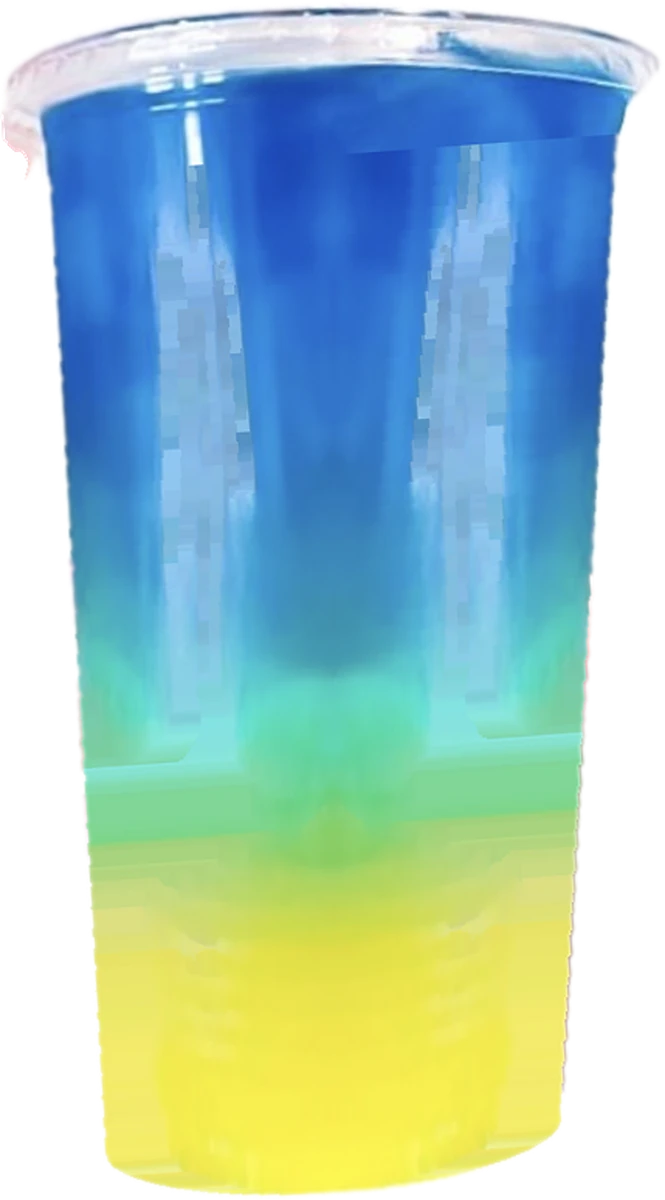
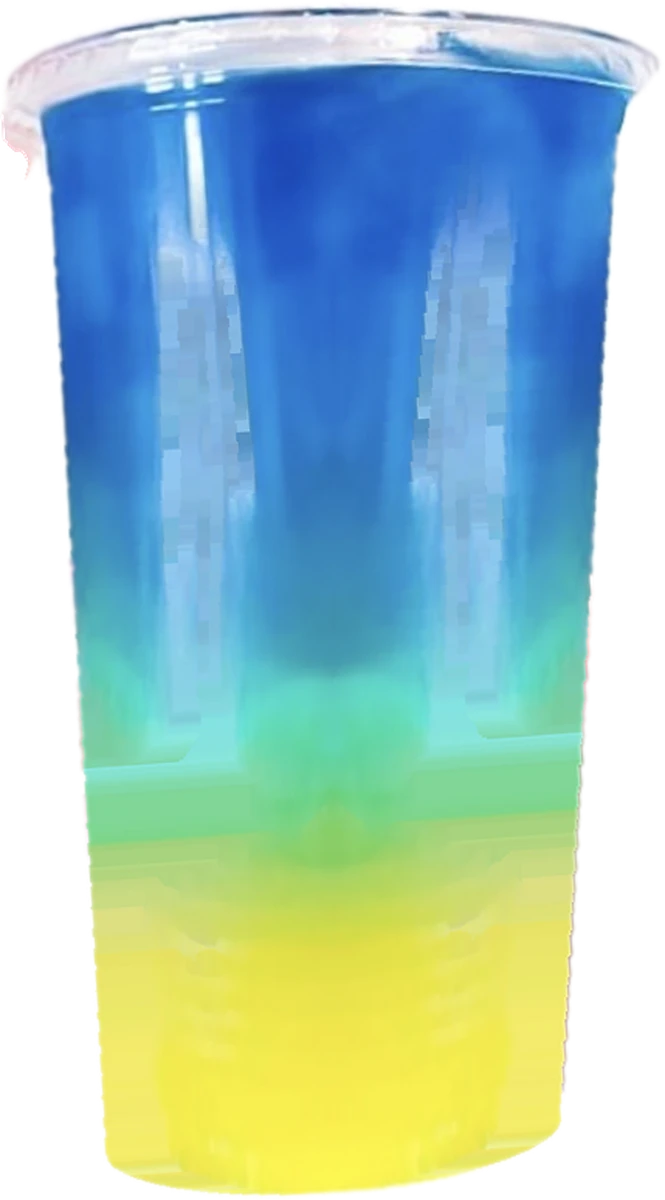
Crossfade the rebuilt cups into their own lid rows
The matte kept the clear lid and the profile painted the body, and the handover
between them was a hard row: on the rainbow cup the two blues differed by a shade
and left a visible step across the drink. Fade one into the other over 90 rows.

diff --git a/verify/live.js b/verify/live.js
@@ -1,0 +1,28 @@
+/* Verify the LIVE page, not the local server — a different authority than the one that built it. */
+const p = require('C:/Users/Circl/.claude/skills/scroll-film-studio/node_modules/puppeteer-core');
+const URL = 'https://stationonemain-source.github.io/the-fix-norman/';
+(async () => {
+  const b = await p.launch({ executablePath: 'C:/Program Files/Google/Chrome/Application/chrome.exe', headless: 'new', args: ['--hide-scrollbars', '--no-sandbox'] });
+  for (const [w, h, tag] of [[1440, 900, 'live_d'], [390, 844, 'live_m']]) {
+    const pg = await b.newPage();
+    await pg.setViewport({ width: w, height: h, isMobile: w < 820, hasTouch: w < 820 });
+    if (w < 820) await pg.setUserAgent('Mozilla/5.0 (Linux; Android 13; Pixel 7) AppleWebKit/537.36 (KHTML, like Gecko) Chrome/128.0 Mobile Safari/537.36');
+    const errs = [], bad = [];
+    pg.on('pageerror', e => errs.push('PAGEERROR ' + e.message));
+    pg.on('console', m => { if (m.type() === 'error') errs.push('CONSOLE ' + m.text()); });
+    pg.on('response', r => { if (r.status() >= 400) bad.push(r.status() + ' ' + r.url()); });
+    await pg.goto(URL + '?jump=0', { waitUntil: 'networkidle0', timeout: 90000 });
+    await pg.waitForFunction('window.__ready===true', { timeout: 60000 });
+    await new Promise(r => setTimeout(r, 1500));
+    await pg.screenshot({ path: 'verify/' + tag + '_hero.png' });
+    const info = await pg.evaluate(() => ({
+      h: document.documentElement.scrollHeight, w: document.documentElement.scrollWidth,
+      cups: Array.from(document.querySelectorAll('.slot img')).map(i => i.naturalWidth + 'x' + i.naturalHeight),
+      title: document.title
+    }));
+    console.log(tag, JSON.stringify(info));
+    console.log(tag, 'errors:', errs.length ? errs.join(' | ') : 'none', '| failed requests:', bad.length ? bad.join(' | ') : 'none');
+    await pg.close();
+  }
+  await b.close();
+})().catch(e => { console.error('FAIL', e.message); process.exit(1); });

diff --git a/site/index.html b/site/index.html
@@ -14,7 +14,7 @@
 <link rel="preconnect" href="https://fonts.gstatic.com" crossorigin>
 <link href="https://fonts.googleapis.com/css2?family=Anton&family=Archivo+Black&family=Caveat:wght@600;700&family=Manrope:wght@400;500;600;700&family=Space+Mono:wght@400;700&display=swap" rel="stylesheet">
 <link rel="preload" as="image" href="img/01-cup.webp">
-<link rel="stylesheet" href="css/site.css?v=202609151819">
+<link rel="stylesheet" href="css/site.css?v=202609151826">
 </head>
 <body>
 
@@ -287,10 +287,10 @@
   </div>
 </footer>
 
-<script src="js/vendor/gsap.min.js?v=202609151819"></script>
-<script src="js/vendor/ScrollTrigger.min.js?v=202609151819"></script>
-<script src="js/vendor/lenis.min.js?v=202609151819"></script>
-<script src="js/manifest.js?v=202609151819"></script>
-<script src="js/loadout.js?v=202609151819"></script>
+<script src="js/vendor/gsap.min.js?v=202609151826"></script>
+<script src="js/vendor/ScrollTrigger.min.js?v=202609151826"></script>
+<script src="js/vendor/lenis.min.js?v=202609151826"></script>
+<script src="js/manifest.js?v=202609151826"></script>
+<script src="js/loadout.js?v=202609151826"></script>
 </body>
 </html>

diff --git a/cuprebuild.py b/cuprebuild.py
@@ -28,7 +28,7 @@ def _fit(v, ys):
 
 
 def build(src, matte, box, out, clean='left', lid_y=0, body_from=None, satmin=0.40,
-          rowsmooth=5, feather=1.4, base_round=0.0):
+          rowsmooth=5, feather=1.4, base_round=0.0, blend=0):
     im = Image.open(src).convert('RGB').crop(box)
     mt = Image.open(matte).convert('RGBA').crop(box)
     a = np.array(im).astype(np.float32); H, W, _ = a.shape
@@ -77,6 +77,7 @@ def build(src, matte, box, out, clean='left', lid_y=0, body_from=None, satmin=0.
     # the lid and straw come straight from the matte
     keep = ma.copy(); keep[lid_y:] = False
     out_a[keep] = 255
+    keep_full = ma.copy()
     for y in range(lid_y, y1 + 1):
         if not np.isfinite(half[y]) or half[y] < 8: continue
         ax = axis[y]; hw = half[y]
@@ -91,7 +92,13 @@ def build(src, matte, box, out, clean='left', lid_y=0, body_from=None, satmin=0.
         for x in range(max(lo, 0), min(hi, W - 1) + 1):
             r = min(int(round(abs(x - ax))), RMAX - 1)
             if not np.isfinite(row[r, 0]): continue
-            out_rgb[y, x] = np.clip(row[r], 0, 255).astype(np.uint8)
+            v = np.clip(row[r], 0, 255)
+            if blend and y < lid_y + blend and keep_full[y, x]:
+                # crossfade into the matte-kept lid rows: a hard handover leaves a
+                # visible step where the two blues differ by a shade
+                t = (y - lid_y) / float(blend)
+                v = v * t + a[y, x] * (1 - t)
+            out_rgb[y, x] = v.astype(np.uint8)
             out_a[y, x] = 255
     alpha = Image.fromarray(out_a).filter(ImageFilter.GaussianBlur(feather))
     res = Image.fromarray(out_rgb).convert('RGBA'); res.putalpha(alpha)

diff --git a/runcups.py b/runcups.py
@@ -7,11 +7,11 @@ from PIL import Image
 # RAINBOW — right hand occludes the right side from y~560, so the clean half is the LEFT.
 cuprebuild.build('photos/raw/g08_hi.jpg', 'cutouts/g08_rembg.png', (530, 220, 1010, 1050),
                  'cutouts/f_rainbow.png', clean='left', lid_y=120, body_from=130,
-                 satmin=0.40, rowsmooth=6, base_round=0.05)
+                 satmin=0.40, rowsmooth=6, base_round=0.05, blend=90)
 # SUNSET — left hand occludes the left side from y~420, so the clean half is the RIGHT.
 cuprebuild.build('photos/raw/g08_hi.jpg', 'cutouts/g08_rembg.png', (180, 240, 542, 920),
                  'cutouts/f_sunset.png', clean='right', lid_y=90, body_from=95,
-                 satmin=0.42, rowsmooth=6, base_round=0.05)
+                 satmin=0.42, rowsmooth=6, base_round=0.05, blend=70)
 
 sheet = Image.new('RGB', (1000, 840), (9, 9, 11))
 for i, f in enumerate(['cutouts/f_rainbow.png', 'cutouts/f_sunset.png']):
